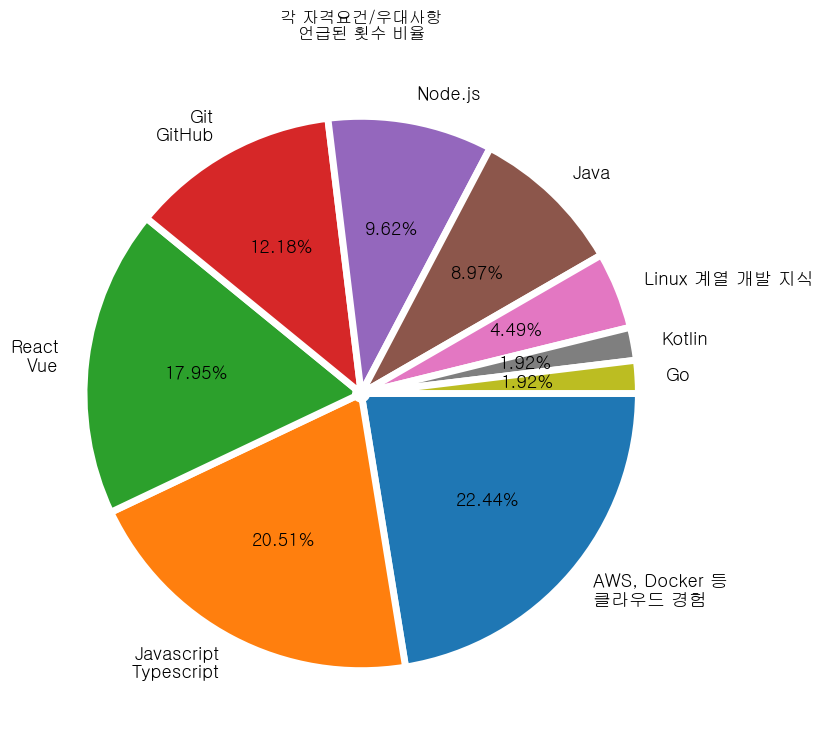
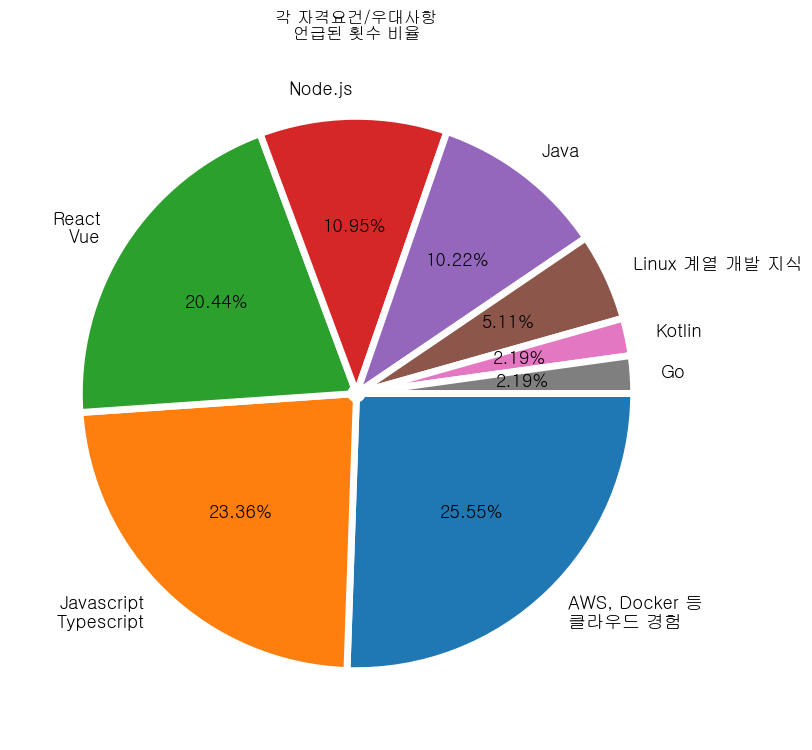
update job researching document to ver 1.04

diff --git a/pie_chart.py b/pie_chart.py
@@ -9,15 +9,14 @@ mpl.rcParams['axes.unicode_minus'] = False
 # 비율 리스트와 우대사항 종류 리스트 (나중에 높은 순서대로 정렬되게끔 개선해야 함, 임의로 입력해둔 상태)
 
 ratio = []
-labels = ['AWS, Docker 등\n클라우드 경험' , 'Javascript\nTypescript' , 'React\nVue' , 'Git\nGitHub' , 'Node.js' , 'Java' , 'Linux 계열 개발 지식' , 'Kotlin' , 'Go']
+labels = ['AWS, Docker 등\n클라우드 경험' , 'Javascript\nTypescript' , 'React\nVue' , 'Node.js' , 'Java' , 'Linux 계열 개발 지식' , 'Kotlin' , 'Go']
 
 # 우대사항 언급 순위 사전 (key 1 부터 횟수가 많은 순서대로 정렬되게끔 개선해야함, 임의로 입력해둔 상태)
 
 number_of_mentions =\
     {
-    1 : 35, 2 : 32, 3 : 28,
-    4 : 19, 5 : 15, 6 : 14,
-    7 : 7, 8 : 3, 9 : 3
+    1 : 35, 2 : 32, 3 : 28, 4 : 15,
+    5 : 14, 6 : 7, 7 : 3, 8 : 3
     }
     
 # 원형 차트 선언

diff --git a/research.md b/research.md
@@ -66,7 +66,7 @@
 
       
 
-- 보유 기술스택 :     
+- **기술** :     
 
        
 
@@ -515,14 +515,15 @@
 
        
 
-       
+- 이 사항들은 [기술](#1-선택한-개발-직군의-종류) 태그를 기준으로 조사를 한 것이기 때문에,
 
+  [기술](#1-선택한-개발-직군의-종류)에 해당하지 않는 언어들은 아래 리스트에 포함되지 않았다는 점 유의하시기 바랍니다.
+  
         
 
 1. AWS, Docker등 클라우드 관련 경험 (35)
 2. Javascript/Typescript (32)
 3. React/Vue 등 (28)
-4. Git/GitHub (19)
 5. Node.js (15)
 6. Java (14)
 7. Linux 계열 개발환경 관련 지식 (7)
